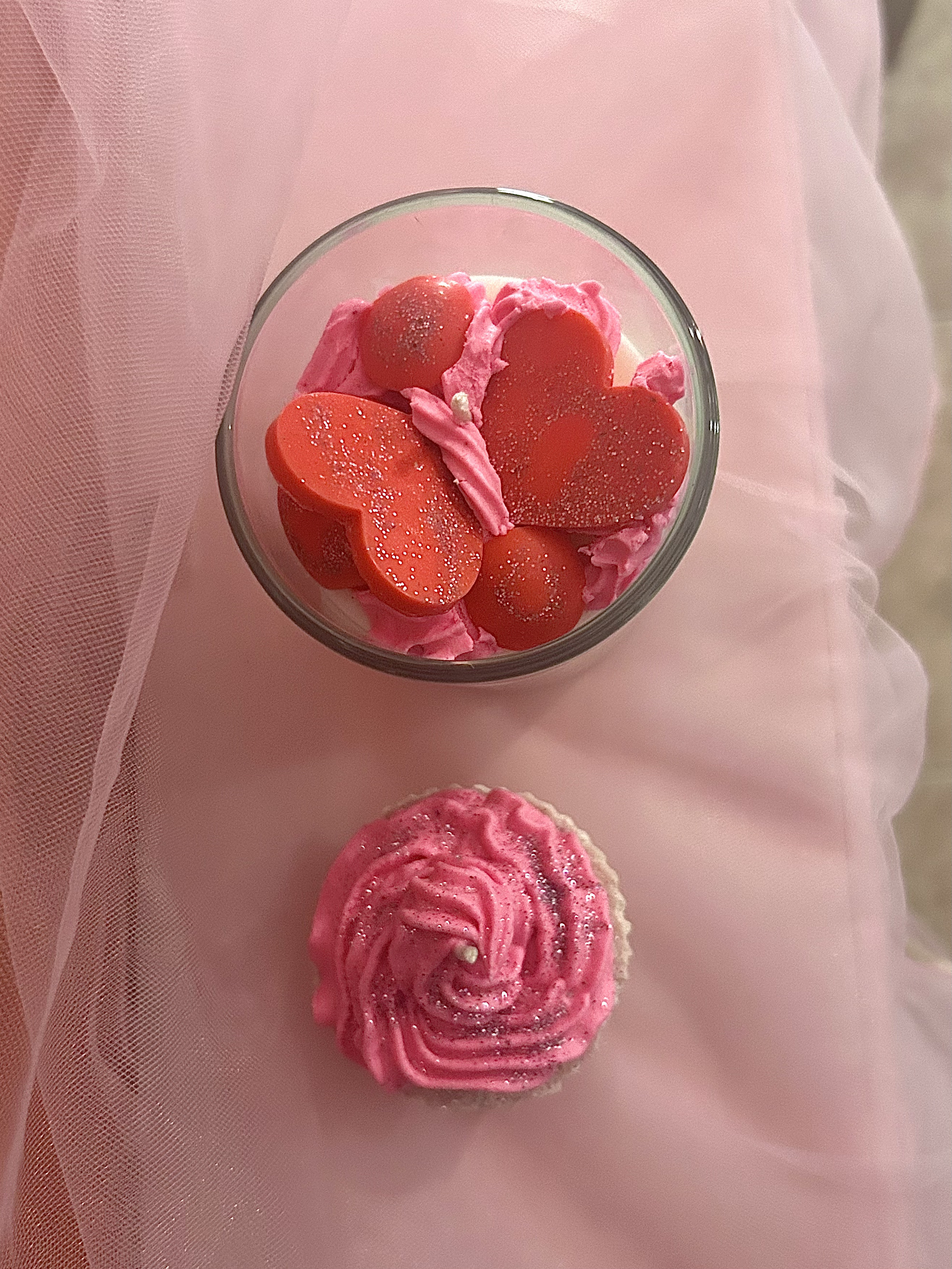
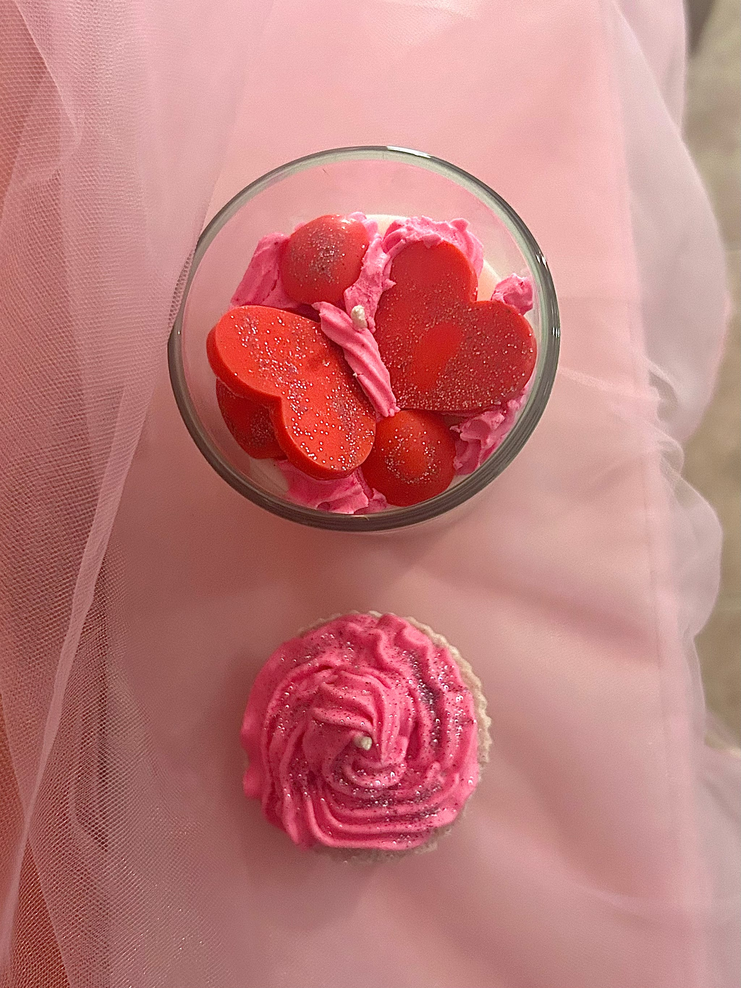
feature: pinterest

Changed region(s): [[0.3125, 0.3112, 0.5312, 0.4669], [0.2812, 0.3424, 0.3125, 0.3735]]

diff --git a/src/pages/google-shopping.xml.ts b/src/pages/google-shopping.xml.ts
@@ -1,0 +1,69 @@
+import type { APIRoute } from 'astro';
+import { getCollection } from 'astro:content';
+
+export const prerender = true;
+
+// Google Merchant product feed (RSS 2.0 + g: namespace). Submit this URL in
+// Merchant Center: https://www.lumikaobjetos.com.ar/google-shopping.xml
+// Spec: https://support.google.com/merchants/answer/7052112
+
+const GOOGLE_NS = 'http://base.google.com/ns/1.0';
+
+const escapeXml = (s: string) =>
+  s.replace(/[<>&'"]/g, (c) => `&${{ '<': 'lt', '>': 'gt', '&': 'amp', "'": 'apos', '"': 'quot' }[c]};`);
+
+// Strip markdown links/syntax and collapse whitespace into a plain-text blurb.
+const plainText = (md: string) =>
+  md
+    .replace(/\[([^\]]+)\]\([^)]+\)/g, '$1')
+    .replace(/[#*_>`~]/g, '')
+    .replace(/\s+/g, ' ')
+    .trim();
+
+export const GET: APIRoute = async ({ site }) => {
+  if (!site) throw new Error('astro.config `site` must be set to build the Google Shopping feed');
+  const products = await getCollection('products');
+
+  const items = products
+    .map((p) => {
+      const d = p.data;
+      const link = new URL(`/shop/${d.slug}`, site).toString();
+      const [primary, ...rest] = d.images.map((img) => new URL(img.src, site).toString());
+      const description = plainText(p.body ?? '') || d.subtitle || d.title;
+      const availability = d.stock === 0 ? 'out_of_stock' : 'in_stock';
+
+      return [
+        '    <item>',
+        `      <g:id>${escapeXml(d.sku ?? d.slug)}</g:id>`,
+        `      <g:title>${escapeXml(d.title)}</g:title>`,
+        `      <g:description>${escapeXml(description)}</g:description>`,
+        `      <g:link>${escapeXml(link)}</g:link>`,
+        primary && `      <g:image_link>${escapeXml(primary)}</g:image_link>`,
+        ...rest.slice(0, 10).map((u) => `      <g:additional_image_link>${escapeXml(u)}</g:additional_image_link>`),
+        `      <g:availability>${availability}</g:availability>`,
+        `      <g:price>${d.price.toFixed(2)} ${d.currency}</g:price>`,
+        `      <g:condition>new</g:condition>`,
+        `      <g:brand>Lumika Objetos</g:brand>`,
+        // Handmade pieces have no GTIN/MPN; tell Google not to expect them.
+        `      <g:identifier_exists>no</g:identifier_exists>`,
+        '    </item>',
+      ]
+        .filter(Boolean)
+        .join('\n');
+    })
+    .join('\n');
+
+  const xml = `<?xml version="1.0" encoding="UTF-8"?>
+<rss version="2.0" xmlns:g="${GOOGLE_NS}">
+  <channel>
+    <title>Lumika Objetos</title>
+    <link>${escapeXml(site.toString())}</link>
+    <description>Velas de soja y accesorios de resina hechos a mano en Mar del Plata.</description>
+${items}
+  </channel>
+</rss>`;
+
+  return new Response(xml, {
+    headers: { 'Content-Type': 'application/xml; charset=utf-8' },
+  });
+};
